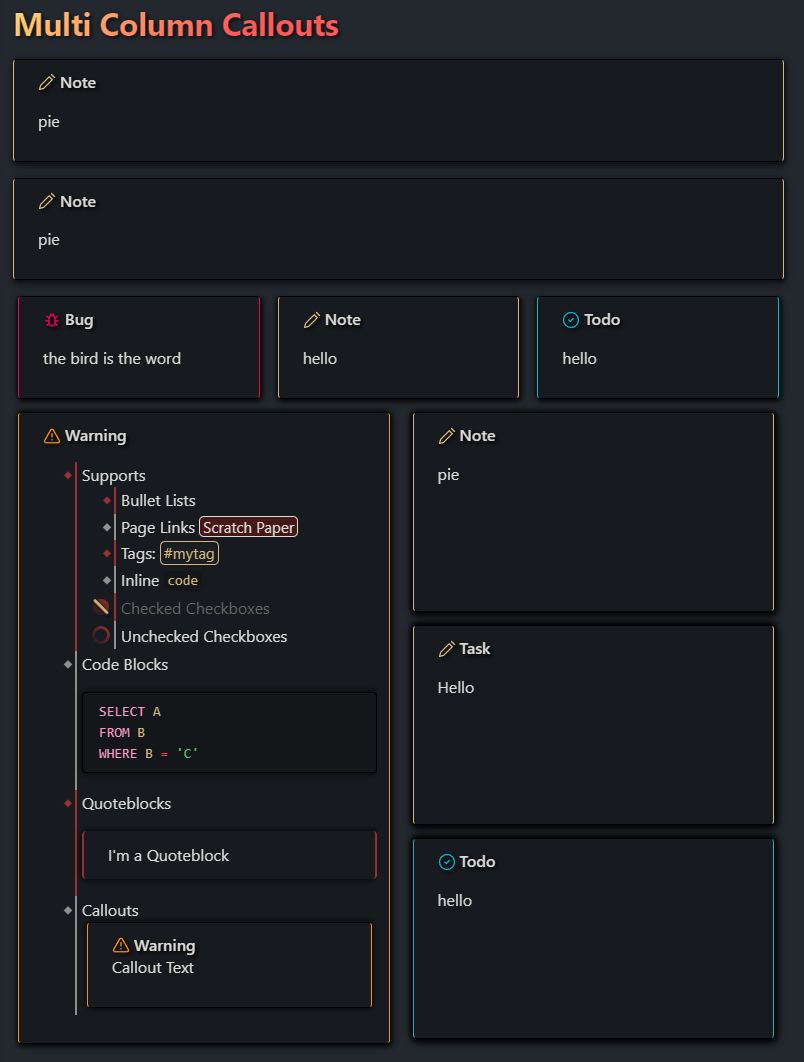
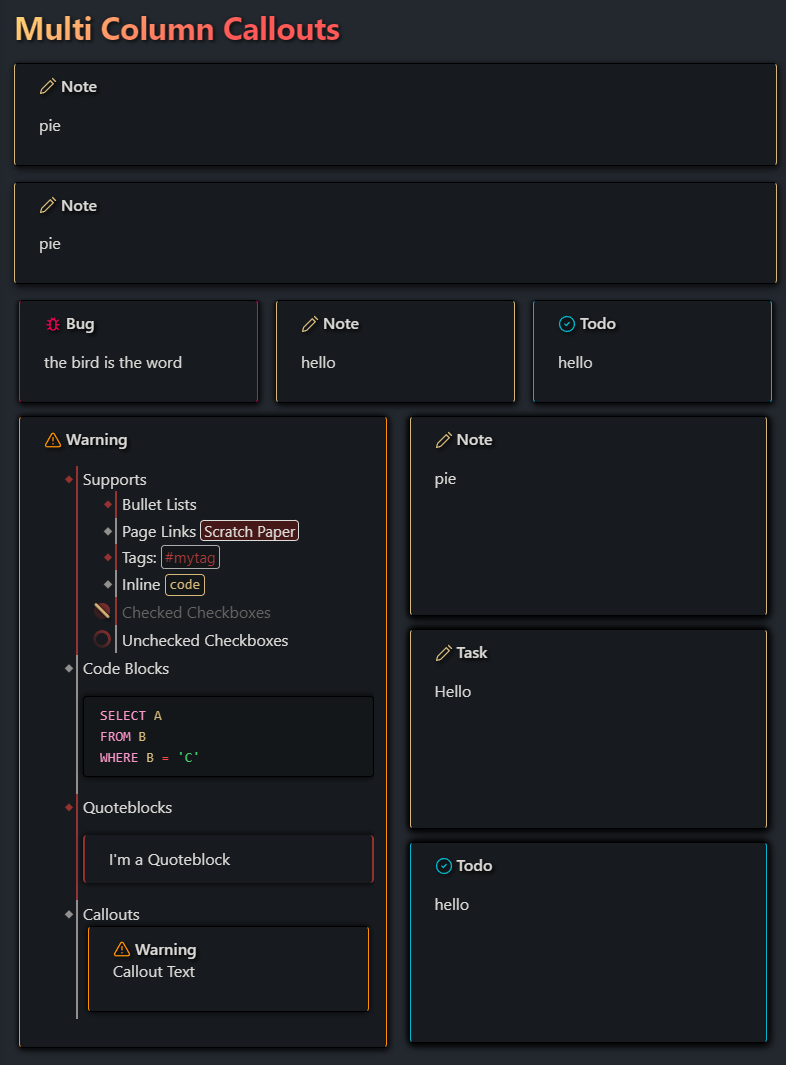
updated tag and link styles
- Tag style reworked to differentiate it from inline code blocks.
- Both tags and links have slightly less rounded border radius.
- Tag  box shadow thinner 0.75px to make it look closer to the 1px border links and inline code blocks use.

diff --git a/theme.css b/theme.css
@@ -431,6 +431,7 @@ body {
     --link-unresolved-filter: none;
     --link-unresolved-decoration-style: solid;
     --link-unresolved-decoration-color: hsla(var(--interactive-accent-hsl), 0.3);
+    --custom-link-radius: 4px;
     /* Lists */
     --list-indent: 2em;
     --list-spacing: 0.075em;
@@ -611,7 +612,7 @@ body {
     --tag-border-width: 0px;
     --tag-padding-x: 4px;
     --tag-padding-y: 2px;
-    --tag-radius: 5px;
+    --tag-radius: 4px;
     /* Window frame */
     --titlebar-background: var(--background-secondary);
     --titlebar-background-focused: var(--background-secondary-alt);
@@ -1369,11 +1370,11 @@ body {
     --custom-link-hover-animation-color-3: var(--custom-gold-950);
 
     /* Tags */
-    --tag-color: var(--custom-gold-950);
+    --tag-color: var(--custom-red-500);
     --tag-color-hover: var(--white);
-    --custom-tag-box-shadow-color: var(--custom-gold-950);
-    --tag-background: var(--custom-black-600);
-    --tag-background-hover: var(--custom-black-600);
+    --custom-tag-box-shadow-color: var(--custom-white-100);
+    --tag-background: var(--background-primary-alt);
+    --tag-background-hover: var(--background-primary-alt);
     --tag-border-color: hsla(var(--interactive-accent-hsl), 0.15);
     --tag-border-color-hover: hsla(var(--interactive-accent-hsl), 0.15);
     --custom-tag-hover-animation-color-1: var(--white);
@@ -2492,7 +2493,7 @@ input.document-search-input.mod-no-match:hover, input.document-replace-input.mod
 :not(h1, h2, h3, h4, h5, h6) > .internal-link, .markdown-source-view.is-live-preview span.cm-hmd-internal-link:not(.cm-header){
     display: inline-block;
     border: 1px solid var(--text-a);
-    border-radius: 5px;
+    border-radius: var(--custom-link-radius);
     padding: 0px 4px;
     font-size: .95em;
     vertical-align: sub;
@@ -2598,7 +2599,7 @@ a.internal-link:hover,
 
 /* NOTE Tag Preview View */
 a.tag{
-    box-shadow: inset 0px 0px 0px 1px var(--custom-tag-box-shadow-color);
+    box-shadow: inset 0px 0px 0px 0.75px var(--custom-tag-box-shadow-color);
 }
 
 /* NOTE Tag Preview View On Hover */
